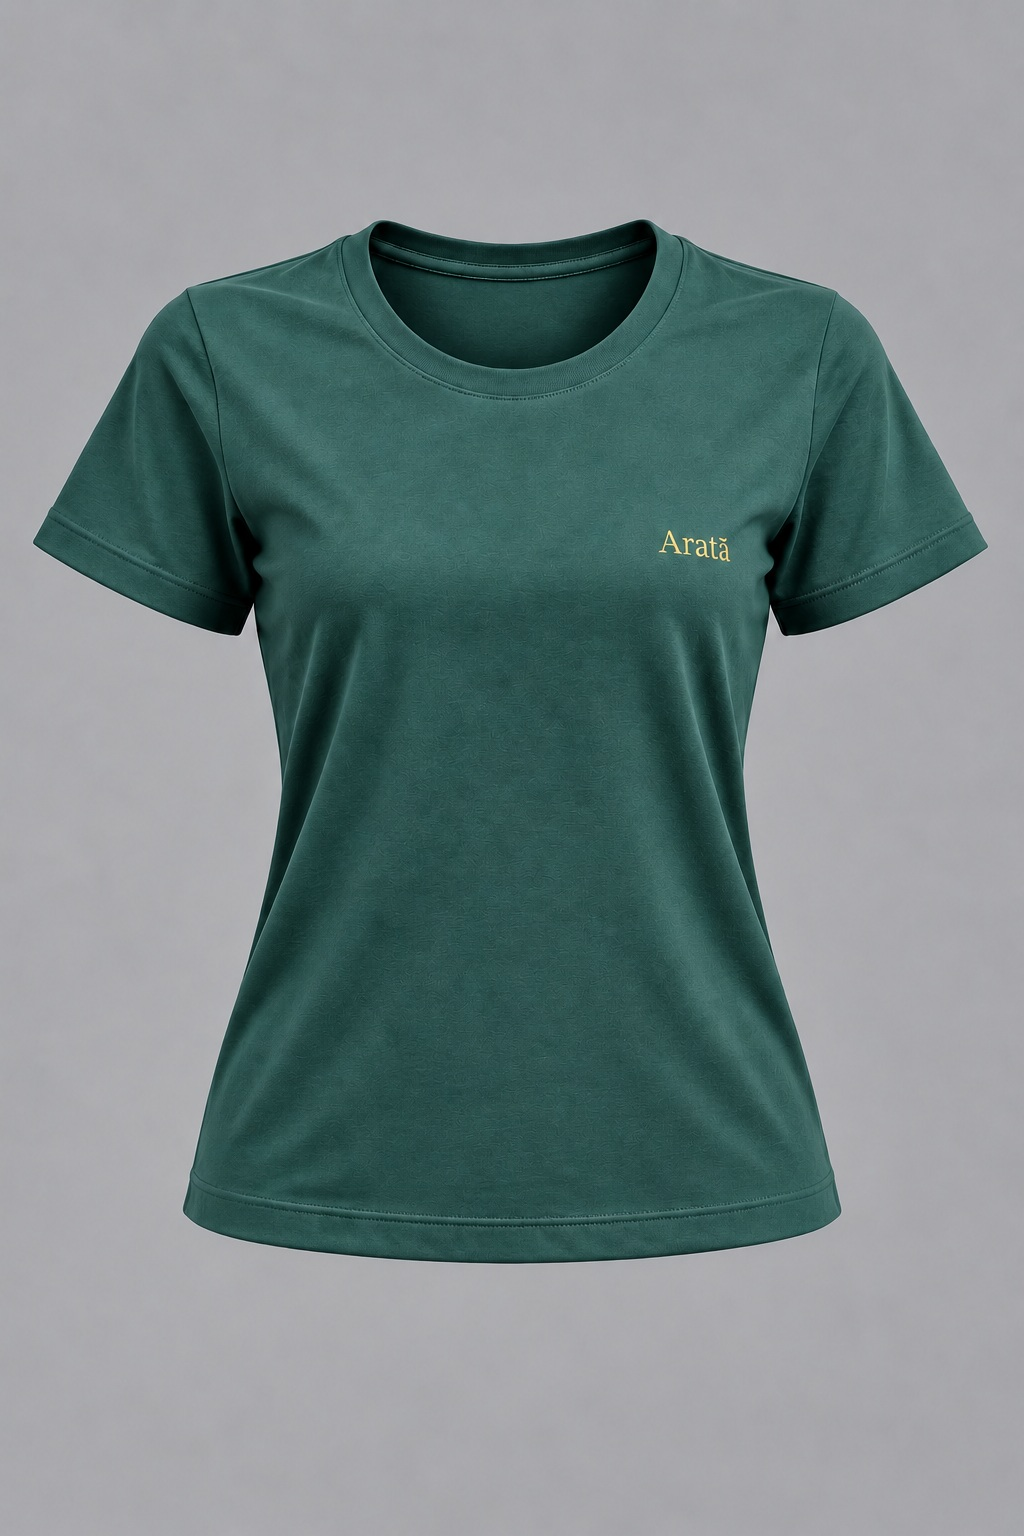
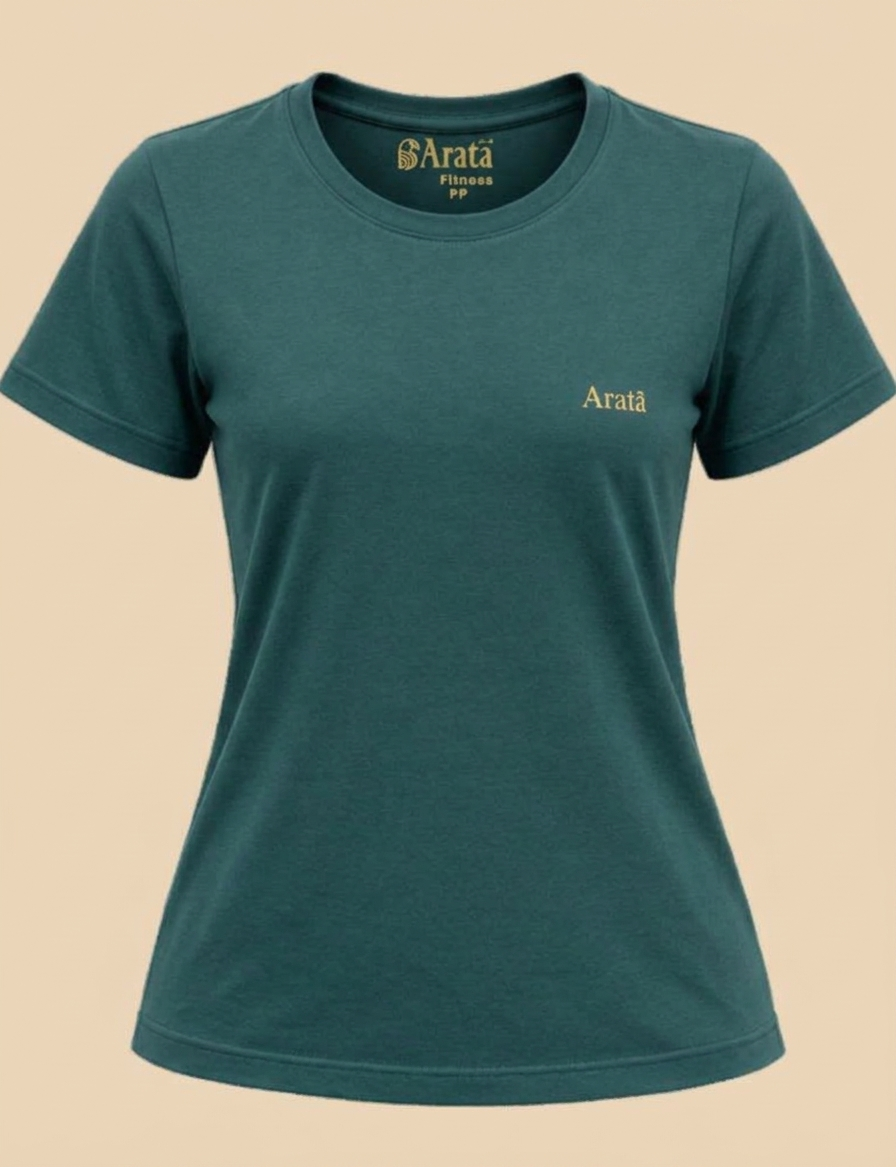
Atualiza fotos dos slides de produtos

diff --git a/products.php b/products.php
@@ -43,7 +43,7 @@ $purchaseOptions = [
     <meta name="viewport" content="width=device-width, initial-scale=1" />
     <title>Coleções</title>
     <meta name="description" content="Coleções Aratã com acesso direto aos produtos no Mercado Livre." />
-    <link rel="icon" type="image/jpeg" href="src/images/Logotipo%20-%20Varia%C3%A7%C3%B5es/fav-icon-y.jpeg">
+    <link rel="icon" type="image/jpeg" href="src/images/Logotipo%20-%20Varia%C3%A7%C3%B5es/fav-icon-y.jpeg?v=2">
     
     <!-- Bootstrap CSS -->
     <link href="https://cdn.jsdelivr.net/npm/bootstrap@5.3.3/dist/css/bootstrap.min.css" rel="stylesheet">
@@ -66,11 +66,11 @@ $purchaseOptions = [
                 <article class="product-card-p">
                     <div class="product-slider">
                         <div class="slider-track">
-                            <img class="product-visual-p active" src="src/images/mod-masc/1.png" alt="Camiseta Aratã Fitness - Cor 1" />
-                            <img class="product-visual-p" src="src/images/mod-masc/2.png" alt="Camiseta Aratã Fitness - Cor 2" />
-                            <img class="product-visual-p" src="src/images/mod-masc/3.png" alt="Camiseta Aratã Fitness - Cor 3" />
-                            <img class="product-visual-p" src="src/images/mod-masc/4.png" alt="Camiseta Aratã Fitness - Cor 4" />
-                            <img class="product-visual-p" src="src/images/mod-masc/5.png" alt="Camiseta Aratã Fitness - Cor 5" />
+                            <img class="product-visual-p active" src="src/images/mod-masc/1.jpg" alt="Camiseta Aratã Fitness masculina verde" />
+                            <img class="product-visual-p" src="src/images/mod-masc/2.jpg" alt="Camiseta Aratã Fitness masculina azul-marinho" />
+                            <img class="product-visual-p" src="src/images/mod-masc/3.jpg" alt="Camiseta Aratã Fitness masculina vermelha" />
+                            <img class="product-visual-p" src="src/images/mod-masc/4.jpg" alt="Camiseta Aratã Fitness masculina azul" />
+                            <img class="product-visual-p" src="src/images/mod-masc/5.jpg" alt="Camiseta Aratã Fitness masculina branca" />
                         </div>
                         <button type="button" class="slider-btn prev" aria-label="Produto anterior" onclick="moveSlide(this, -1)">&lt;</button>
                         <button type="button" class="slider-btn next" aria-label="Próximo produto" onclick="moveSlide(this, 1)">&gt;</button>
@@ -123,10 +123,11 @@ $purchaseOptions = [
                 <article class="product-card-p">
                     <div class="product-slider">
                         <div class="slider-track">
-                            <img class="product-visual-p active" src="src/images/mod-fem/1.jpg" alt="Conjunto feminino Aratã - Cor 1" />
-                            <img class="product-visual-p" src="src/images/mod-fem/2.jpg" alt="Conjunto feminino Aratã - Cor 2" />
-                            <img class="product-visual-p" src="src/images/mod-fem/3.jpg" alt="Conjunto feminino Aratã - Cor 3" />
-                            <img class="product-visual-p" src="src/images/mod-fem/4.jpg" alt="Conjunto feminino Aratã - Cor 4" />
+                            <img class="product-visual-p active" src="src/images/mod-fem/1.jpg" alt="Camiseta Aratã Fitness feminina azul-marinho" />
+                            <img class="product-visual-p" src="src/images/mod-fem/2.jpg" alt="Camiseta Aratã Fitness feminina azul" />
+                            <img class="product-visual-p" src="src/images/mod-fem/3.jpg" alt="Camiseta Aratã Fitness feminina verde" />
+                            <img class="product-visual-p" src="src/images/mod-fem/4.jpg" alt="Camiseta Aratã Fitness feminina vermelha" />
+                            <img class="product-visual-p" src="src/images/mod-fem/5.jpg" alt="Camiseta Aratã Fitness feminina branca" />
                         </div>
                         <button type="button" class="slider-btn prev" aria-label="Produto anterior" onclick="moveSlide(this, -1)">&lt;</button>
                         <button type="button" class="slider-btn next" aria-label="Próximo produto" onclick="moveSlide(this, 1)">&gt;</button>
@@ -135,6 +136,7 @@ $purchaseOptions = [
                             <span class="dot" onclick="goToSlide(this, 1)"></span>
                             <span class="dot" onclick="goToSlide(this, 2)"></span>
                             <span class="dot" onclick="goToSlide(this, 3)"></span>
+                            <span class="dot" onclick="goToSlide(this, 4)"></span>
                         </div>
                     </div>
                     <h3>Camiseta Feminina Gola Careca Aratã – Modelagem Baby Look</h3>

diff --git a/contato.php b/contato.php
@@ -236,7 +236,7 @@ if ($_SERVER['REQUEST_METHOD'] === 'POST') {
     <meta name="viewport" content="width=device-width, initial-scale=1" />
     <title>Contato | Aratã</title>
     <meta name="description" content="Entre em contato com a Aratã. Envie sua mensagem e, se desejar, receba novidades e ofertas." />
-    <link rel="icon" type="image/jpeg" href="src/images/Logotipo%20-%20Varia%C3%A7%C3%B5es/fav-icon-y.jpeg">
+    <link rel="icon" type="image/jpeg" href="src/images/Logotipo%20-%20Varia%C3%A7%C3%B5es/fav-icon-y.jpeg?v=2">
     <link href="https://cdn.jsdelivr.net/npm/bootstrap@5.3.3/dist/css/bootstrap.min.css" rel="stylesheet">
     <link rel="stylesheet" href="https://cdnjs.cloudflare.com/ajax/libs/font-awesome/6.5.1/css/all.min.css">
     <link rel="stylesheet" href="style.css?v=6.1">

diff --git a/objetivo.php b/objetivo.php
@@ -5,7 +5,7 @@
     <meta name="viewport" content="width=device-width, initial-scale=1" />
     <title>Objetivo | Aratã</title>
     <meta name="description" content="Missão, visão, objetivo e pilares da Aratã." />
-    <link rel="icon" type="image/jpeg" href="src/images/Logotipo%20-%20Varia%C3%A7%C3%B5es/fav-icon-y.jpeg">
+    <link rel="icon" type="image/jpeg" href="src/images/Logotipo%20-%20Varia%C3%A7%C3%B5es/fav-icon-y.jpeg?v=2">
     <link href="https://cdn.jsdelivr.net/npm/bootstrap@5.3.3/dist/css/bootstrap.min.css" rel="stylesheet">
     <link rel="stylesheet" href="https://cdnjs.cloudflare.com/ajax/libs/font-awesome/6.5.1/css/all.min.css">
     <link rel="stylesheet" href="style.css?v=6.1">

diff --git a/index.php b/index.php
@@ -5,7 +5,7 @@
     <meta name="viewport" content="width=device-width, initial-scale=1" />
     <title>Aratã by Khono's</title>
     <meta name="description" content="Coleções Aratã com acesso direto aos produtos no Mercado Livre." />
-    <link rel="icon" type="image/jpeg" href="src/images/Logotipo%20-%20Varia%C3%A7%C3%B5es/fav-icon-y.jpeg">
+    <link rel="icon" type="image/jpeg" href="src/images/Logotipo%20-%20Varia%C3%A7%C3%B5es/fav-icon-y.jpeg?v=2">
     
     <!-- Bootstrap CSS -->
     <link href="https://cdn.jsdelivr.net/npm/bootstrap@5.3.3/dist/css/bootstrap.min.css" rel="stylesheet">

diff --git a/quem-somos.php b/quem-somos.php
@@ -5,7 +5,7 @@
     <meta name="viewport" content="width=device-width, initial-scale=1" />
     <title>Quem somos</title>
     <meta name="description" content="Coleções Aratã com acesso direto aos produtos no Mercado Livre." />
-    <link rel="icon" type="image/jpeg" href="src/images/Logotipo%20-%20Varia%C3%A7%C3%B5es/fav-icon-y.jpeg">
+    <link rel="icon" type="image/jpeg" href="src/images/Logotipo%20-%20Varia%C3%A7%C3%B5es/fav-icon-y.jpeg?v=2">
     
     <!-- Bootstrap CSS -->
     <link href="https://cdn.jsdelivr.net/npm/bootstrap@5.3.3/dist/css/bootstrap.min.css" rel="stylesheet">
